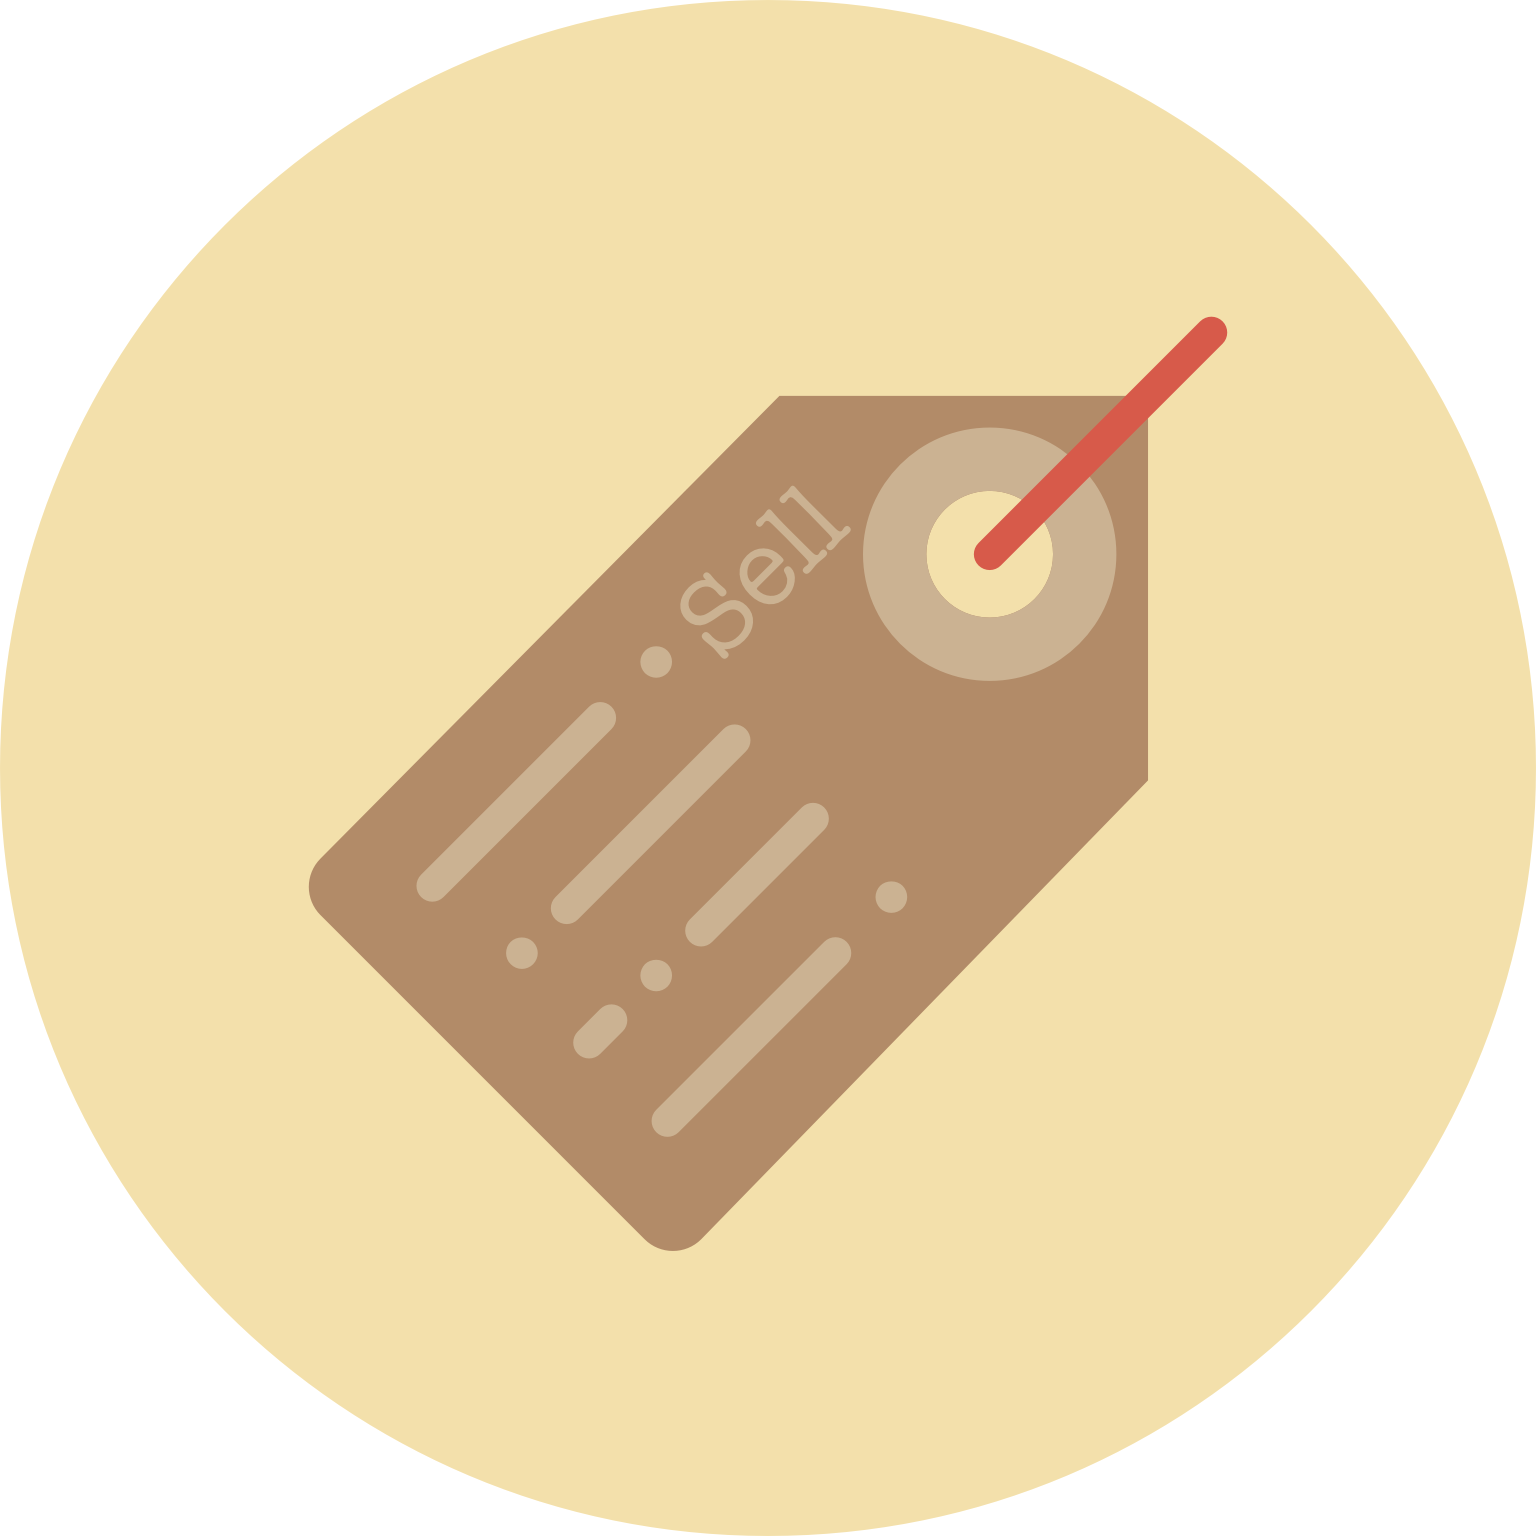
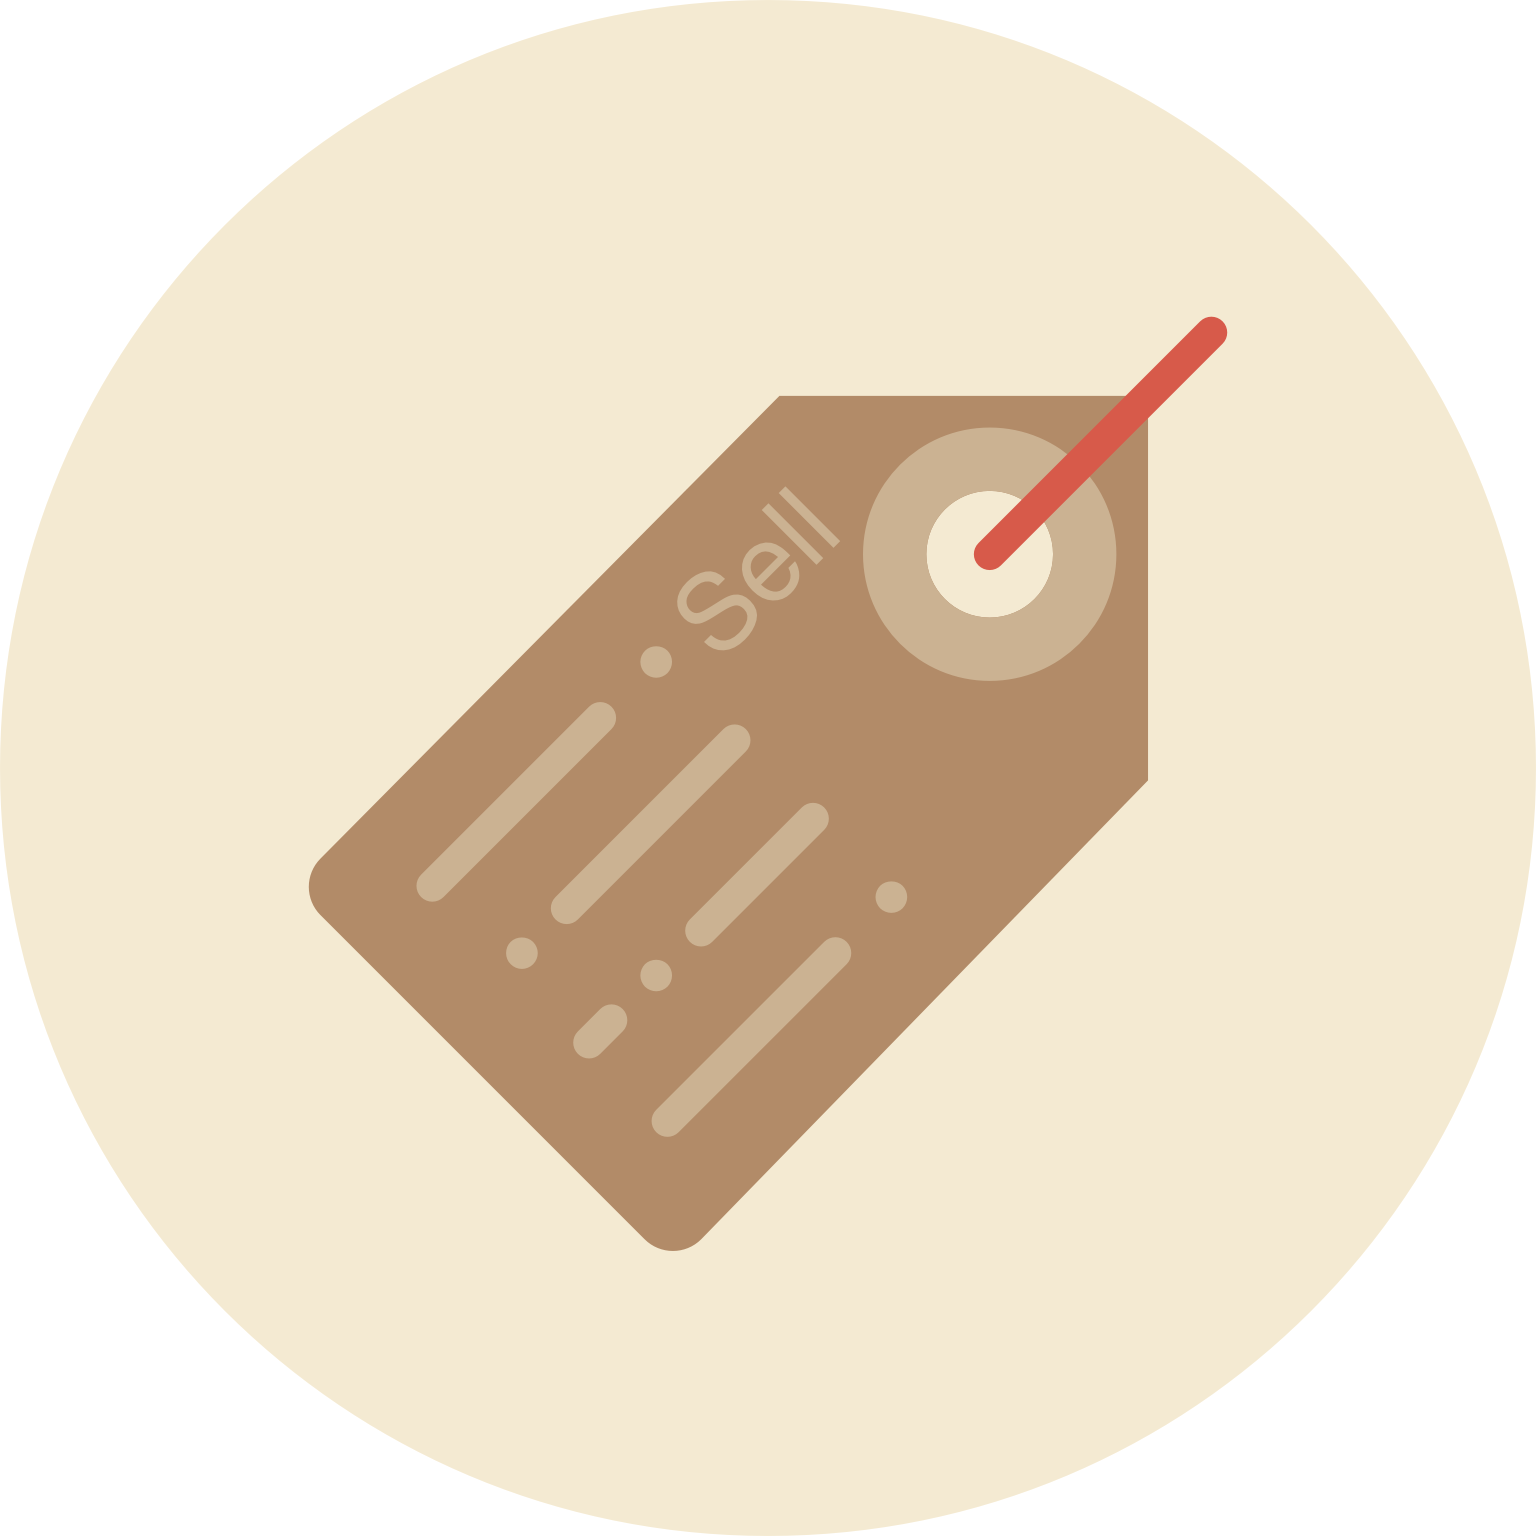
update mode

diff --git a/App/Containers/HomeScreen.js b/App/Containers/HomeScreen.js
@@ -93,16 +93,16 @@ class HomeScreen extends React.Component {
           </View>
 
           <TouchableHighlight onPress={()=> NavigationActions.listviewExample()}
-                              style={{flex:0.45, backgroundColor:'#F2DFAE'}}>
+                              style={{flex:0.45, backgroundColor:'#F1E7D1'}}>
             <Animatable.Image animation='fadeInLeft' source={Images.buy}
                    style={{flex:0.45, alignSelf:'center', resizeMode:'cover'}}>
 
             </Animatable.Image>
           </TouchableHighlight>
-          <TouchableHighlight onPress={()=> NavigationActions.myItems()} style={{flex:0.45, backgroundColor:'#F2DFAE'}}>
+          <TouchableHighlight onPress={()=> NavigationActions.myItems()} style={{flex:0.45, backgroundColor:'#F1E7D1'}}>
 
             <Animatable.Image animation="fadeInRight" source={Images.sell}
-                              style={{flex:0.45, alignSelf:'center', resizeMode:'cover', backgroundColor:'#F2DFAE'}}>
+                              style={{flex:0.45, alignSelf:'center', resizeMode:'cover', backgroundColor:'#F1E7D1'}}>
 
 
             </Animatable.Image>

diff --git a/App/Containers/ConfirmationPage.js b/App/Containers/ConfirmationPage.js
@@ -23,13 +23,13 @@ class ConfirmationPage extends React.Component {
   render() {
     return (
       <View style={styles.container}>
-        <View style={{flex:0.2, backgroundColor:'#F2DFAE',    justifyContent: 'center',alignItems: 'center'}}>
+        <View style={{flex:0.2, backgroundColor:'#F1E7D1',    justifyContent: 'center',alignItems: 'center'}}>
         </View>
         <View style={styles.modal}>
           <Image source={Images.check} style={styles.topLogo}>
           </Image>
         </View>
-        <View style={{flex:0.4, backgroundColor:'#F2DFAE', justifyContent: 'flex-start',alignItems: 'center'}}>
+        <View style={{flex:0.4, backgroundColor:'#F1E7D1', justifyContent: 'flex-start',alignItems: 'center'}}>
           <Text style={styles.text}>
             {this.props.message}
           </Text>

diff --git a/App/Containers/Styles/HomeScreenStyle.js b/App/Containers/Styles/HomeScreenStyle.js
@@ -13,7 +13,7 @@ export default StyleSheet.create({
     height: Metrics.screenHeight,
     flexDirection: 'column',
     justifyContent: 'space-around',
-    backgroundColor: '#F2DFAE'
+    backgroundColor: '#F1E7D1'
   },
   slideContainer: {
     flex: 0.1,

diff --git a/App/Containers/Styles/ItemDetailScreenStyle.js b/App/Containers/Styles/ItemDetailScreenStyle.js
@@ -15,7 +15,7 @@ export default StyleSheet.create({
     height: Metrics.screenHeight,
     flexDirection: 'column',
     justifyContent: 'space-around',
-    backgroundColor: '#F2DFAE'
+    backgroundColor: '#F1E7D1'
   },
   slideContainer: {
     flex: 0.1,

diff --git a/App/Containers/Styles/ItemInputStyle.js b/App/Containers/Styles/ItemInputStyle.js
@@ -13,7 +13,7 @@ export default StyleSheet.create({
     height: Metrics.screenHeight,
     flexDirection: 'column',
     justifyContent: 'space-around',
-    backgroundColor: '#F2DFAE'
+    backgroundColor: '#F1E7D1'
   },
   slideContainer: {
     flex: 0.1,

diff --git a/App/Containers/Styles/ConfirmationPageStyle.js b/App/Containers/Styles/ConfirmationPageStyle.js
@@ -11,7 +11,7 @@ export default StyleSheet.create({
     flex: 0.3,
     justifyContent: 'center',
     alignItems: 'center',
-    backgroundColor: '#F2DFAE',
+    backgroundColor: '#F1E7D1',
   },
   text: {
     color: "black",

diff --git a/App/Containers/Styles/ChatDetailStyle.js b/App/Containers/Styles/ChatDetailStyle.js
@@ -13,6 +13,6 @@ export default StyleSheet.create({
     height: Metrics.screenHeight,
     flexDirection: 'column',
     justifyContent: 'space-around',
-    backgroundColor: '#F2DFAE'
+    backgroundColor: '#F1E7D1'
   },
 })

diff --git a/App/Containers/Styles/ItemChatScreenStyle.js b/App/Containers/Styles/ItemChatScreenStyle.js
@@ -13,6 +13,6 @@ export default StyleSheet.create({
     height: Metrics.screenHeight,
     flexDirection: 'column',
     justifyContent: 'space-around',
-    backgroundColor: '#F2DFAE'
+    backgroundColor: '#F1E7D1'
   },
 })
